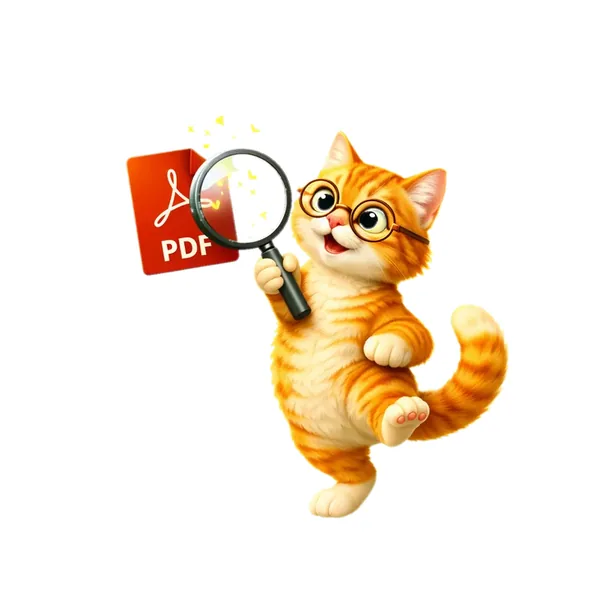
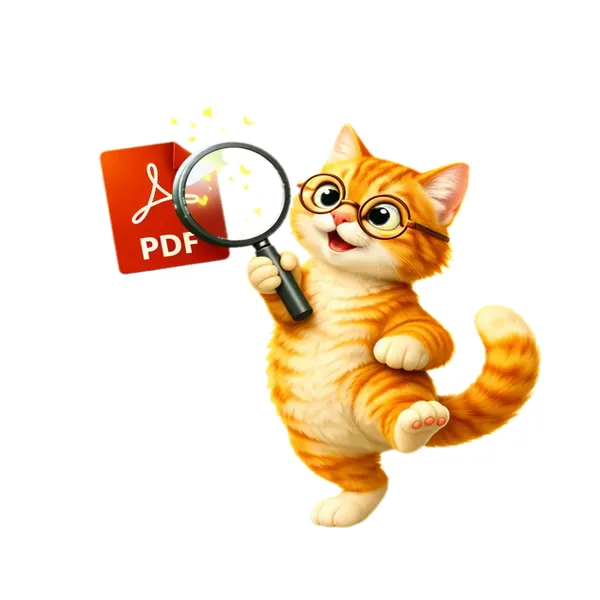
nasıl-yapılır: width +%5 / height -%5 / total %10 küçük (16 foto)
- Git'ten originaller restore (abe81bf)
- Non-uniform scale: W × 0.945, H × 0.855
- Canvas aynı, content centered
- Kullanıcı feedback: 'dikeyde uzun duruyor' — yataya çekildi

Changed region(s): [[0.15, 0.18, 0.9, 0.9]]

diff --git a/site/pdf-to-excel.html b/site/pdf-to-excel.html
@@ -612,7 +612,7 @@
             <div class="bg-white rounded-2xl shadow p-6 md:p-8">
                 <div class="grid md:grid-cols-3 gap-8 items-start">
                     <div class="md:col-span-1 flex justify-center">
-                        <img src="/images/pdf-to-excel-nasil-yapilir.webp?v=39fab8c2"
+                        <img src="/images/pdf-to-excel-nasil-yapilir.webp?v=07316518"
                              alt="Turuncu tabby kedi kırmızı PDF kaynağından yeşil Excel ızgarasına uçuşan sayı karoları yerleştiriyor, yanında minik hesap makinesi — PDF'den Excel'e aracının maskotu, 3D illüstrasyon"
                              class="w-56 md:w-full max-w-sm"
                              width="450" height="450"

diff --git a/site/pdf-sifre-kaldir.html b/site/pdf-sifre-kaldir.html
@@ -629,7 +629,7 @@
             <div class="bg-white rounded-2xl shadow p-6 md:p-8">
                 <div class="grid md:grid-cols-3 gap-8 items-start">
                     <div class="md:col-span-1 flex justify-center">
-                        <img src="/images/pdf-sifre-kaldir-nasil-yapilir.webp?v=2a562d75"
+                        <img src="/images/pdf-sifre-kaldir-nasil-yapilir.webp?v=683f6716"
                              alt="Turuncu tabby kedi kırmızı PDF'in asma kilidine küçük altın anahtar sokuyor, turuncu kıvılcımlarla kilit açılıyor — PDF Şifre Kaldır aracının maskotu, 3D illüstrasyon"
                              class="w-56 md:w-full max-w-sm"
                              width="450" height="450"

diff --git a/site/pdf-sirala.html b/site/pdf-sirala.html
@@ -618,7 +618,7 @@
             <div class="bg-white rounded-2xl shadow p-6 md:p-8">
                 <div class="grid md:grid-cols-3 gap-8 items-start">
                     <div class="md:col-span-1 flex justify-center">
-                        <img src="/images/pdf-sirala-nasil-yapilir.webp?v=f75d4d13"
+                        <img src="/images/pdf-sirala-nasil-yapilir.webp?v=88bc35a4"
                              alt="Turuncu tabby kedi havada uçuşan numaralı kırmızı PDF mini sayfalarını kart gibi düzenliyor, bir sayfayı pençesiyle yerine koyuyor — PDF Sırala aracının maskotu, 3D illüstrasyon"
                              class="w-56 md:w-full max-w-sm"
                              width="450" height="450"

diff --git a/site/pdf-to-jpg.html b/site/pdf-to-jpg.html
@@ -533,7 +533,7 @@
             <div class="bg-white rounded-2xl shadow p-6 md:p-10">
                 <div class="grid md:grid-cols-3 gap-8 items-center">
                     <div class="md:col-span-1 flex justify-center">
-                        <img src="/images/pdf-to-jpg-nasil-yapilir.webp?v=248dcf4e"
+                        <img src="/images/pdf-to-jpg-nasil-yapilir.webp?v=6ef10159"
                              alt="Turuncu tabby kedi elinde minik kamera ile kırmızı PDF sayfasının fotoğrafını çekiyor, çıktı renkli JPG polaroid fotoğraf — PDF'den JPG'ye aracının maskotu, 3D illüstrasyon"
                              class="w-56 md:w-full max-w-sm"
                              width="450" height="450"

diff --git a/site/pdf-to-word.html b/site/pdf-to-word.html
@@ -533,7 +533,7 @@
             <div class="bg-white rounded-2xl shadow p-6 md:p-10">
                 <div class="grid md:grid-cols-3 gap-8 items-center">
                     <div class="md:col-span-1 flex justify-center">
-                        <img src="/images/pdf-to-word-nasil-yapilir.webp?v=8ab25063"
+                        <img src="/images/pdf-to-word-nasil-yapilir.webp?v=71b7e15c"
                              alt="Turuncu tabby kedi büyük parlayan mavi W butonuna basıyor, kırmızı PDF mavi düzenlenebilir Word belgesine dönüşüyor — PDF'den Word'e aracının maskotu, 3D illüstrasyon"
                              class="w-56 md:w-full max-w-sm"
                              width="450" height="450"

diff --git a/site/pdf-sikistir.html b/site/pdf-sikistir.html
@@ -550,7 +550,7 @@
             <div class="bg-white rounded-2xl shadow p-6 md:p-10">
                 <div class="grid md:grid-cols-3 gap-8 items-center">
                     <div class="md:col-span-1 flex justify-center">
-                        <img src="/images/pdf-sikistir-nasil-yapilir.webp?v=60967a84"
+                        <img src="/images/pdf-sikistir-nasil-yapilir.webp?v=e66135e1"
                              alt="Turuncu tabby kedi minik kırmızı el preseyle kırmızı PDF'i sıkıştırıyor, çıktı küçük ve düzgün bir PDF — PDF Sıkıştır aracının maskotu, 3D illüstrasyon"
                              class="w-56 md:w-full max-w-sm"
                              width="450" height="450"

diff --git a/site/pdf-to-txt.html b/site/pdf-to-txt.html
@@ -612,7 +612,7 @@
             <div class="bg-white rounded-2xl shadow p-6 md:p-8">
                 <div class="grid md:grid-cols-3 gap-8 items-start">
                     <div class="md:col-span-1 flex justify-center">
-                        <img src="/images/pdf-to-txt-nasil-yapilir.webp?v=9e3495f3"
+                        <img src="/images/pdf-to-txt-nasil-yapilir.webp?v=ce132115"
                              alt="Turuncu tabby kedi eski daktiloda yazıyor, bir yanda kırmızı PDF girdi kağıdı diğer yanda gri TXT çıktı kağıdı — PDF'den TXT'ye aracının maskotu, 3D illüstrasyon"
                              class="w-56 md:w-full max-w-sm"
                              width="450" height="450"

diff --git a/site/pdf-birlestir.html b/site/pdf-birlestir.html
@@ -560,7 +560,7 @@
             <div class="bg-white rounded-2xl shadow p-6 md:p-10">
                 <div class="grid md:grid-cols-3 gap-8 items-center">
                     <div class="md:col-span-1 flex justify-center">
-                        <img src="/images/pdf-birlestir-nasil-yapilir.webp?v=4a724107"
+                        <img src="/images/pdf-birlestir-nasil-yapilir.webp?v=fe54a8a4"
                              alt="Turuncu tabby kedi havada süzülen üç kırmızı PDF belgesini enerji bantlarıyla tek PDF'e birleştiriyor — PDF Birleştir aracının maskotu, 3D illüstrasyon"
                              class="w-56 md:w-full max-w-sm"
                              width="450" height="450"

diff --git a/site/word-to-pdf.html b/site/word-to-pdf.html
@@ -533,7 +533,7 @@
             <div class="bg-white rounded-2xl shadow p-6 md:p-10">
                 <div class="grid md:grid-cols-3 gap-8 items-center">
                     <div class="md:col-span-1 flex justify-center">
-                        <img src="/images/word-to-pdf-nasil-yapilir.webp?v=cfeaa7d8"
+                        <img src="/images/word-to-pdf-nasil-yapilir.webp?v=672804ac"
                              alt="Turuncu tabby kedi mavi Word belgesine kırmızı PDF mührü basıyor, yanında küçük kırmızı ıstampa — Word'den PDF'e aracının maskotu, 3D illüstrasyon"
                              class="w-56 md:w-full max-w-sm"
                              width="450" height="450"

diff --git a/site/pdf-ocr.html b/site/pdf-ocr.html
@@ -611,7 +611,7 @@
             <div class="bg-white rounded-2xl shadow p-6 md:p-8">
                 <div class="grid md:grid-cols-3 gap-8 items-start">
                     <div class="md:col-span-1 flex justify-center">
-                        <img src="/images/pdf-ocr-nasil-yapilir.webp?v=f2d2ed96"
+                        <img src="/images/pdf-ocr-nasil-yapilir.webp?v=8a2de9d0"
                              alt="Tiny detektif gözlüklü turuncu tabby kedi büyüteçle kırmızı PDF'i inceliyor, ortaya çıkan harfler yukarı uçuyor — PDF OCR aracının maskotu, 3D illüstrasyon"
                              class="w-56 md:w-full max-w-sm"
                              width="450" height="450"

diff --git a/site/pdf-sifrele.html b/site/pdf-sifrele.html
@@ -618,7 +618,7 @@
             <div class="bg-white rounded-2xl shadow p-6 md:p-8">
                 <div class="grid md:grid-cols-3 gap-8 items-start">
                     <div class="md:col-span-1 flex justify-center">
-                        <img src="/images/pdf-sifrele-nasil-yapilir.webp?v=934ad885"
+                        <img src="/images/pdf-sifrele-nasil-yapilir.webp?v=8e9e7ae8"
                              alt="Turuncu tabby kedi kırmızı PDF şeklindeki kasanın büyük kadranını çeviriyor, üstünde kalkan ikonu — PDF Şifrele aracının maskotu, 3D illüstrasyon"
                              class="w-56 md:w-full max-w-sm"
                              width="450" height="450"

diff --git a/site/pdf-to-ppt.html b/site/pdf-to-ppt.html
@@ -612,7 +612,7 @@
             <div class="bg-white rounded-2xl shadow p-6 md:p-8">
                 <div class="grid md:grid-cols-3 gap-8 items-start">
                     <div class="md:col-span-1 flex justify-center">
-                        <img src="/images/pdf-to-ppt-nasil-yapilir.webp?v=b05f0205"
+                        <img src="/images/pdf-to-ppt-nasil-yapilir.webp?v=de5bcb86"
                              alt="Turuncu tabby kedi sunumcu pozunda, kırmızı PDF'in yanında turuncu sunum slaytları havada açılıyor — PDF'den PPT'ye aracının maskotu, 3D illüstrasyon"
                              class="w-56 md:w-full max-w-sm"
                              width="450" height="450"
